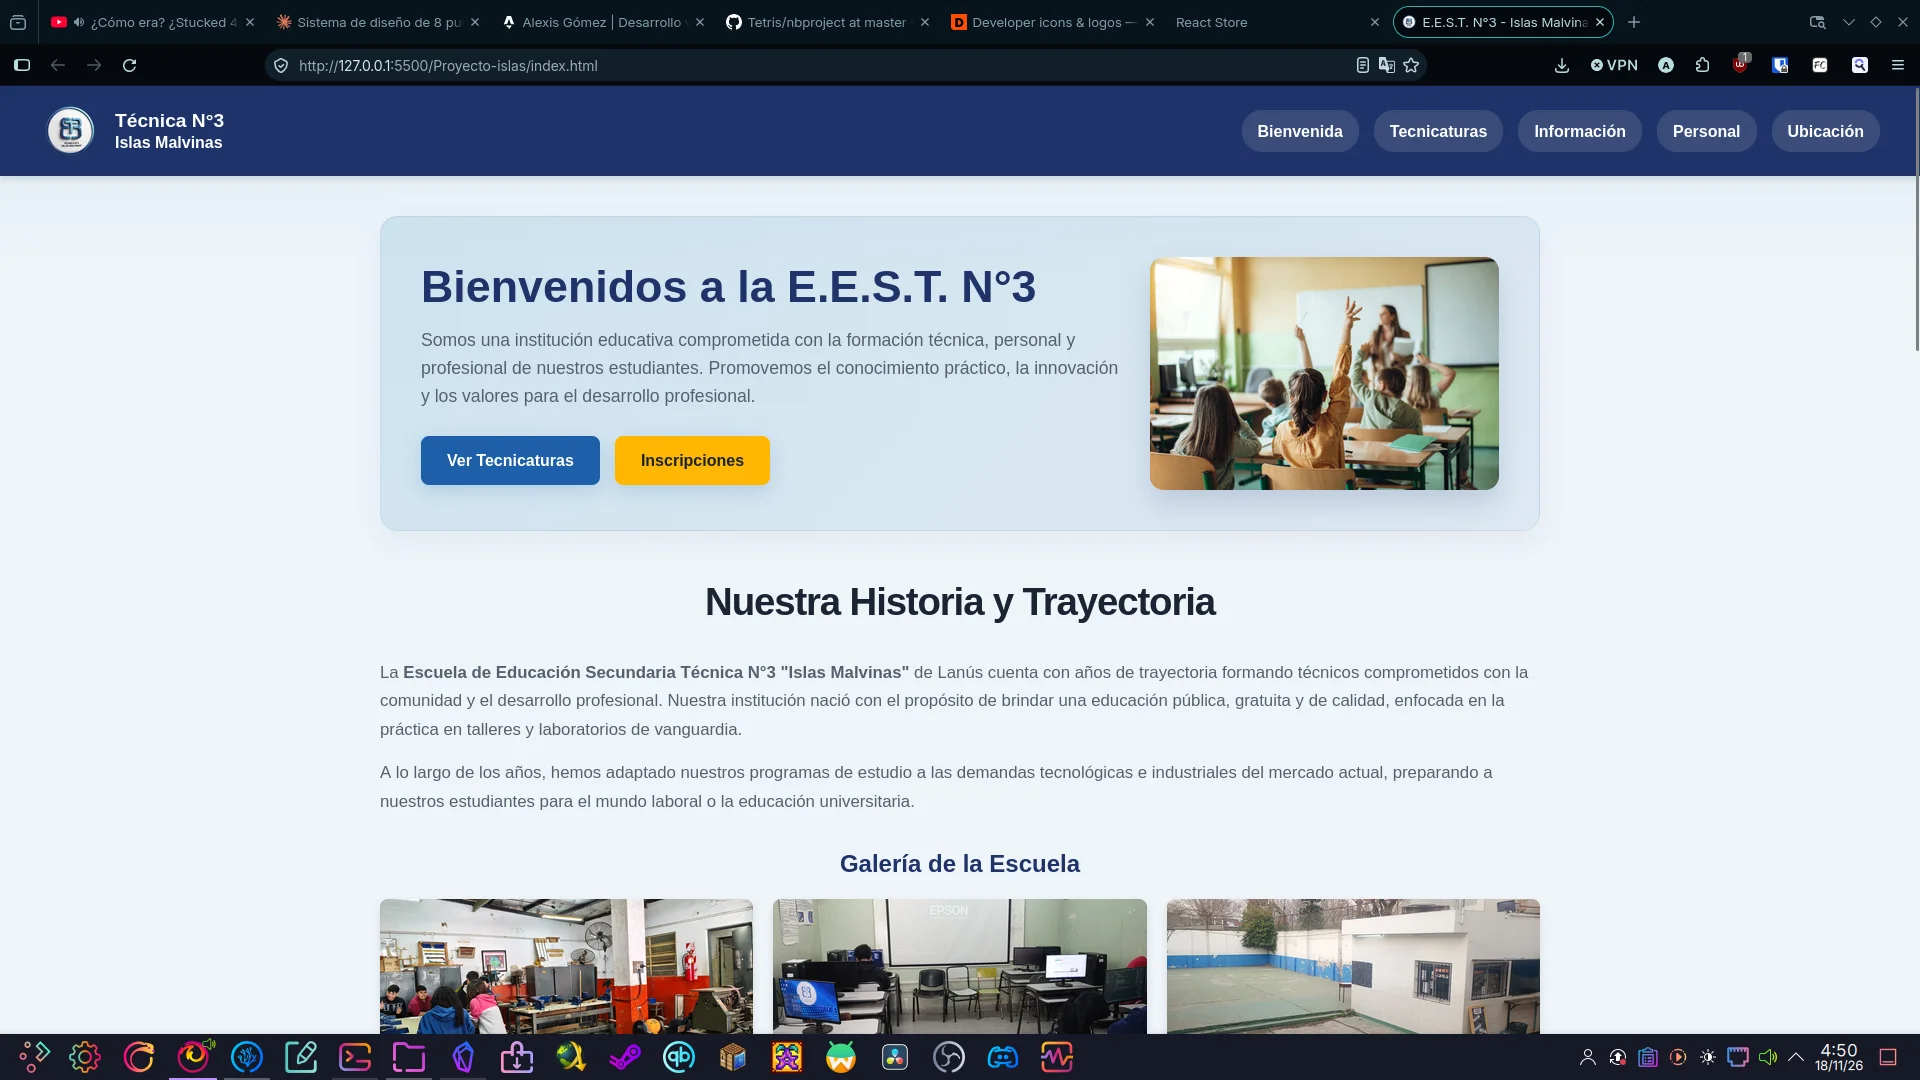
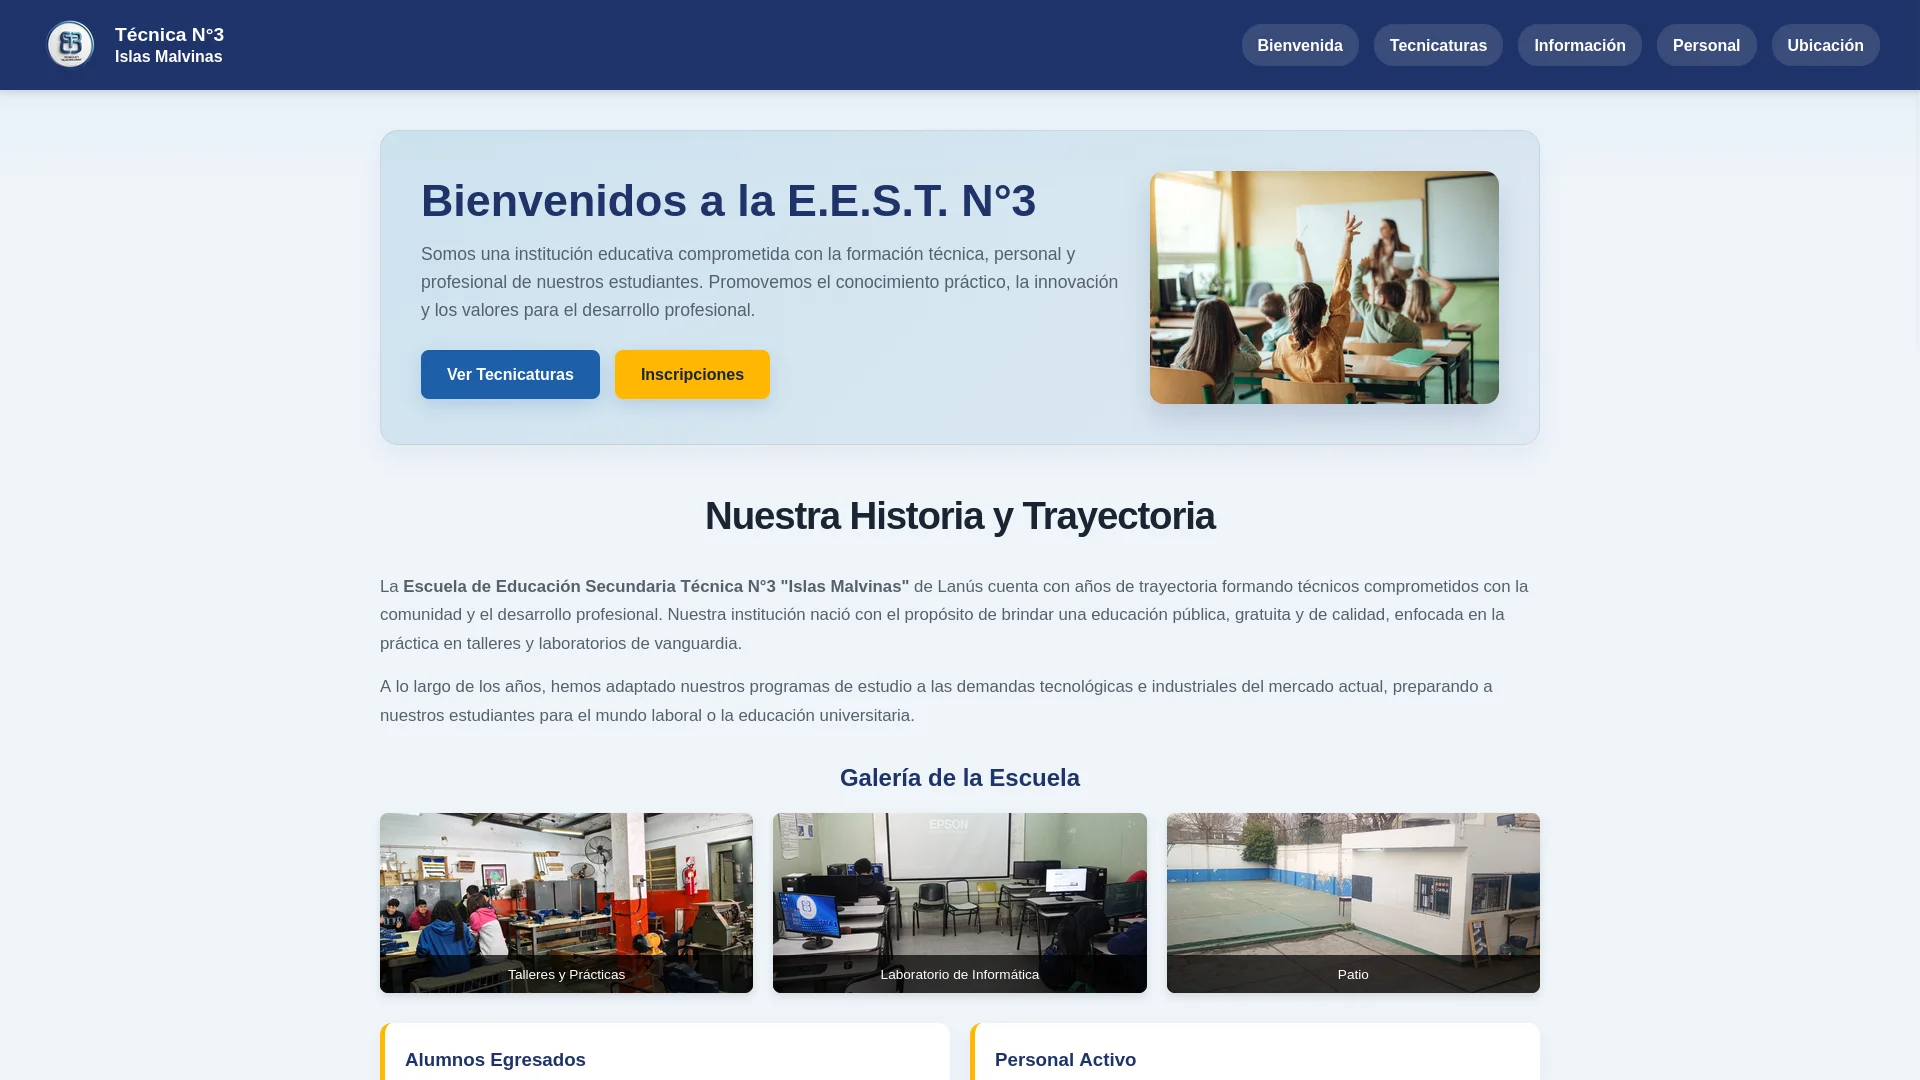
imagenes ahora en aspecto 16:9

diff --git a/src/styles/global.css b/src/styles/global.css
@@ -26,6 +26,7 @@ body {
   color: var(--texto);
   font-family: var(--fuente-larga);
   line-height: 1.5rem;
+  margin: 0;
 }
 
 h1,
@@ -135,7 +136,7 @@ h3 {
 .card-imagen {
   position: relative;
   display: block;
-  aspect-ratio: 1 / 1;
+  aspect-ratio: 16 / 9;
   overflow: hidden;
   background-color: var(--fondo);
 }
